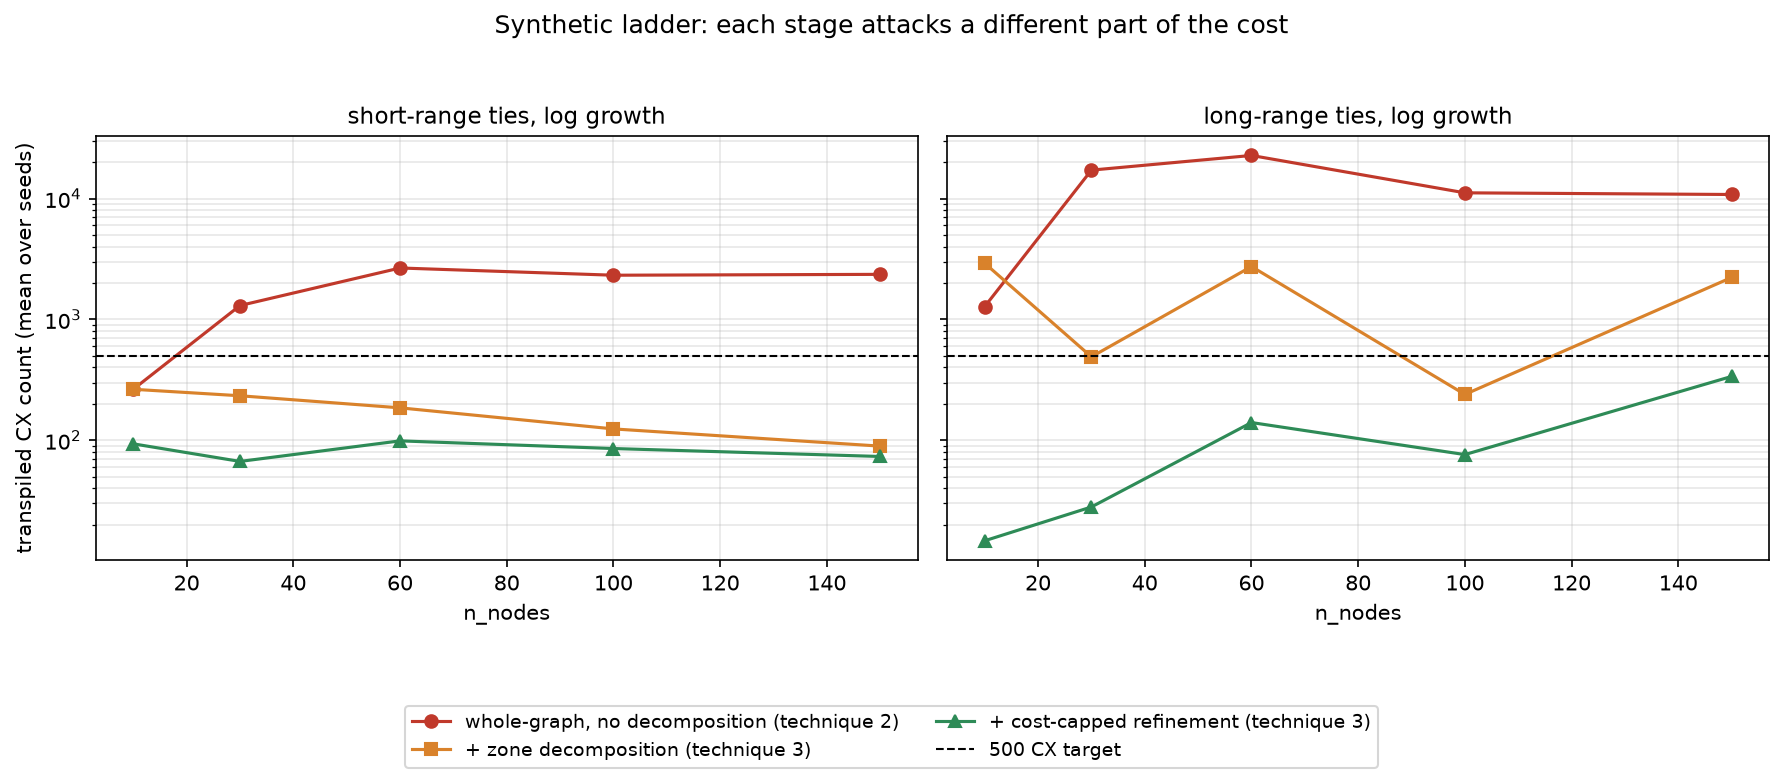
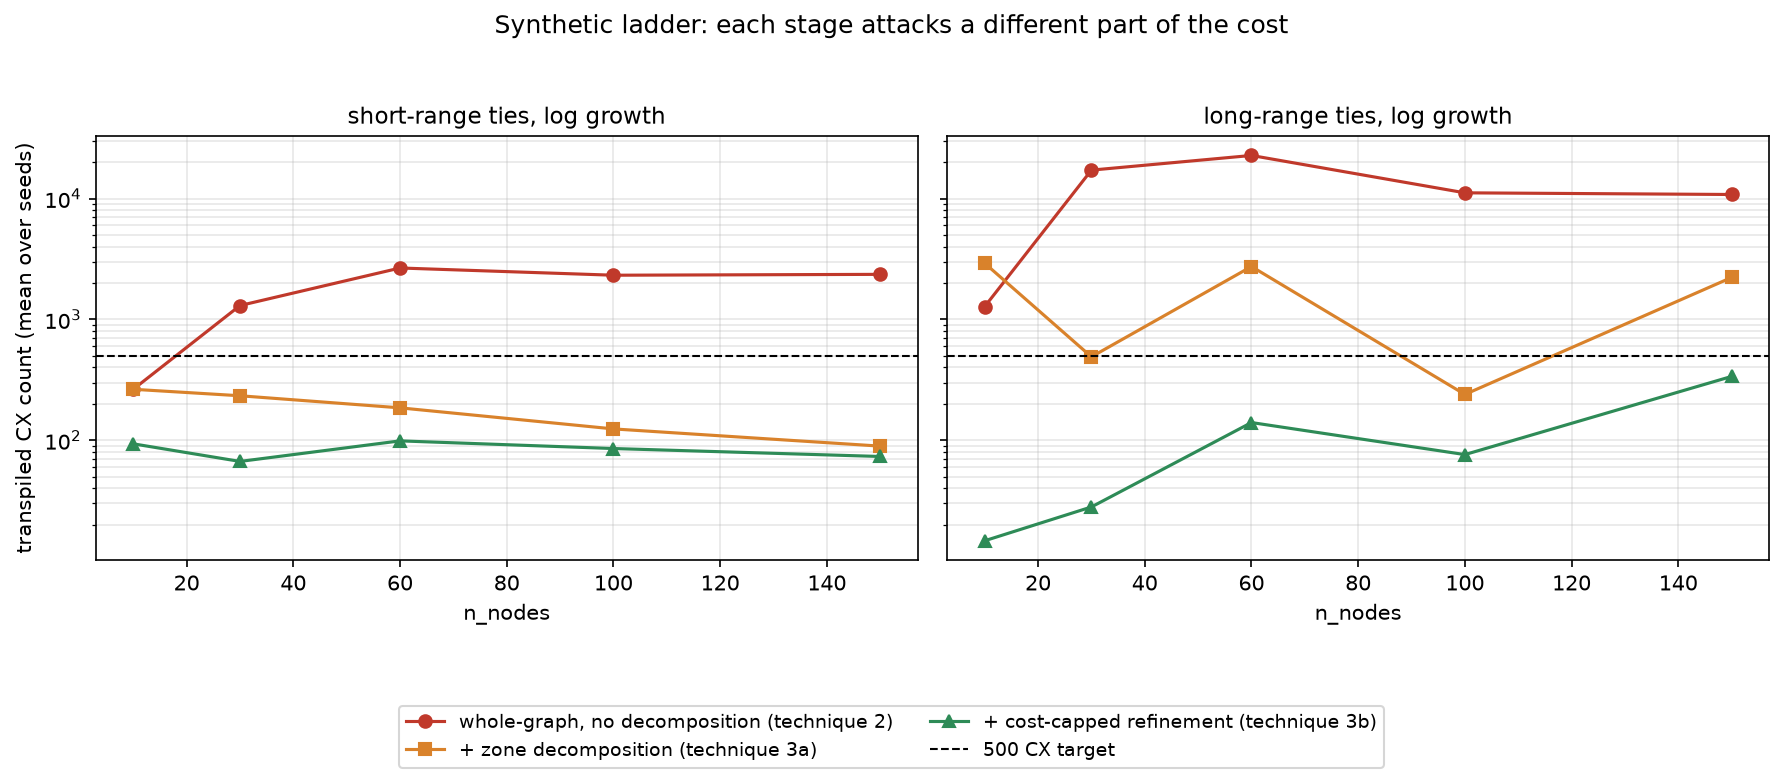
Split technique 3 into 3a/3b; add a safety-axis companion to the CX plot
Technique 3's two stages (zone decomposition, cost-capped refinement)
were both labeled "technique 3" in the construction_progression_plot
legend and in prose, which made the figure's own legend ambiguous about
which line was which technique. Split into 3a (zone decomposition) and
3b (cost-capped refinement) throughout the Techniques section and every
cross-reference in Results.

Considered and rejected adding technique 1 (exact) to the CX-cost plot:
its failure mode is dropping candidates it can't find a small witness
for, which shows up as an artificially LOW CX count next to an
incomplete, non-functional mixer -- exactly backwards from what the plot
is trying to show. It also isn't measurable at this scale at all: exact
requires brute-force enumeration that doesn't scale to n_nodes=150
long-range, which is why this ladder measures technique 2 in the first
place.

Built the suggested alternative instead: `synthetic_mass_progression_plot.png`,
the same three techniques (2, 3a, 3b) and the same ladder, plotted for
mean feasible mass (safety) instead of CX (cost) -- no new measurement,
the data was already sitting in the committed CSVs. Technique 1 is
excluded here too, for a related but distinct reason: `measure_exact`
reports mean_feasible_mass=1.0 by construction whenever it runs at all,
so a leakage-axis comparison would show it as a flat, misleadingly
perfect line that hides its actual failure mode (completeness, not
leakage) rather than revealing it.
[…]

Changed region(s): [[0.2158, 0.8889, 0.4933, 0.9808], [0.5549, 0.8889, 0.7707, 0.9808]]

diff --git a/scripts/plot_results_figures.py b/scripts/plot_results_figures.py
@@ -1,17 +1,21 @@
 """Generates README-facing result figures from already-committed CSVs --
 no new measurement, just visualizing numbers that were previously only
-presented as markdown tables. Four figures, two per side of the
-synthetic/real split the README's Results section is built around:
+presented as markdown tables. Five figures:
 
 1. `construction_progression_plot.png` -- synthetic ladder, CX vs. size,
-   whole-graph (technique 2) -> zone decomposition -> its cost-capped
-   refinement (technique 3, both stages), against the 500-CX target line.
-2. `synthetic_nisq_feasibility_plot.png` -- the same ladder's whole-graph
+   whole-graph (technique 2) -> zone decomposition (technique 3a) -> its
+   cost-capped refinement (technique 3b), against the 500-CX target line.
+2. `synthetic_mass_progression_plot.png` -- the same three techniques,
+   same ladder, mean feasible mass (safety) instead of CX. Technique 1
+   deliberately excluded from this and the plot above -- see the
+   function's own docstring for why a leakage-axis comparison would
+   misrepresent it just as badly as a cost-axis one would.
+3. `synthetic_nisq_feasibility_plot.png` -- the same ladder's whole-graph
    vs. cost-capped numbers at its hardest tested size (n_nodes=150),
    against published NISQ fidelity curves.
-3. `real_network_comparison_plot.png` -- grouped bar chart, CX cost per
+4. `real_network_comparison_plot.png` -- grouped bar chart, CX cost per
    construction, both real networks, against the 500-CX target line.
-4. `real_nisq_feasibility_plot.png` -- the two real networks' three
+5. `real_nisq_feasibility_plot.png` -- the two real networks' three
    construction variants, against the same fidelity curves.
 
 (Two earlier figures were removed as redundant once the README's own
@@ -64,8 +68,8 @@ def plot_construction_progression() -> None:
         xs_f, ys_f = _series(flat, "condition", cond, "n_nodes", "cx_mean")
         xs_c, ys_c = _series(capped, "condition", cond, "n_nodes", "cx_mean")
         ax.plot(xs_w, ys_w, marker="o", color="#C0392B", label="whole-graph, no decomposition (technique 2)")
-        ax.plot(xs_f, ys_f, marker="s", color="#D9822B", label="+ zone decomposition (technique 3)")
-        ax.plot(xs_c, ys_c, marker="^", color="#2E8B57", label="+ cost-capped refinement (technique 3)")
+        ax.plot(xs_f, ys_f, marker="s", color="#D9822B", label="+ zone decomposition (technique 3a)")
+        ax.plot(xs_c, ys_c, marker="^", color="#2E8B57", label="+ cost-capped refinement (technique 3b)")
         ax.axhline(CX_THRESHOLD, color="black", ls="dashed", lw=1, label=f"{CX_THRESHOLD} CX target")
         ax.set_yscale("log")
         ax.set_xlabel("n_nodes")
@@ -77,6 +81,46 @@ def plot_construction_progression() -> None:
     fig.suptitle("Synthetic ladder: each stage attacks a different part of the cost", fontsize=12)
     fig.tight_layout(rect=(0, 0.1, 1, 0.95))
     out = RESULTS_DIR / "construction_progression_plot.png"
+    fig.savefig(out, dpi=150, bbox_inches="tight")
+    plt.close(fig)
+    print(f"wrote {out}")
+
+
+def plot_synthetic_mass_progression() -> None:
+    """Companion to plot_construction_progression -- same three
+    techniques, same ladder, but feasible mass (safety) instead of CX
+    (cost). Technique 1 (exact) is deliberately absent from both: its
+    failure mode is dropped candidates / disconnection, not leakage --
+    `measure_exact` reports mean_feasible_mass=1.0 by construction
+    whenever it runs at all, so a leakage-axis plot would show it as a
+    flat, misleadingly perfect line that hides its actual failure mode
+    (already told honestly via `dropped_candidates`/`fully_connected`
+    elsewhere). Exact construction also doesn't scale to n_nodes=150
+    long-range at all -- brute-force enumeration is the reason this
+    repo's exact-construction sweeps stay at small sizes everywhere else."""
+    whole = _rows("cost_aware_scaling_ladder_summary.csv")
+    flat = _rows("decomposed_cost_aware_ladder_summary.csv")
+    capped = _rows("cost_capped_decomposition_summary.csv")
+
+    fig, axes = plt.subplots(1, 2, figsize=(12, 4.8), sharey=True)
+    for ax, cond, title in ((axes[0], "short_log", "short-range ties, log growth"), (axes[1], "long_log", "long-range ties, log growth")):
+        xs_w, ys_w = _series(whole, "condition", cond, "n_nodes", "mean_feasible_mass_mean")
+        xs_f, ys_f = _series(flat, "condition", cond, "n_nodes", "mean_feasible_mass_mean")
+        xs_c, ys_c = _series(capped, "condition", cond, "n_nodes", "mean_feasible_mass_mean")
+        ax.plot(xs_w, ys_w, marker="o", color="#C0392B", label="whole-graph, no decomposition (technique 2)")
+        ax.plot(xs_f, ys_f, marker="s", color="#D9822B", label="+ zone decomposition (technique 3a)")
+        ax.plot(xs_c, ys_c, marker="^", color="#2E8B57", label="+ cost-capped refinement (technique 3b)")
+        ax.axhline(1.0, color="black", ls="dashed", lw=1, label="perfect (no leakage)")
+        ax.set_xlabel("n_nodes")
+        ax.set_title(title, fontsize=11)
+        ax.grid(True, alpha=0.3)
+        ax.set_ylim(0.85, 1.02)
+    axes[0].set_ylabel("mean feasible mass (1.0 = no leakage)")
+    handles, labels = axes[0].get_legend_handles_labels()
+    fig.legend(handles, labels, loc="lower center", ncol=2, fontsize=9, bbox_to_anchor=(0.5, -0.1))
+    fig.suptitle("Synthetic ladder: the same three stages, measured for safety instead of cost", fontsize=12)
+    fig.tight_layout(rect=(0, 0.13, 1, 0.95))
+    out = RESULTS_DIR / "synthetic_mass_progression_plot.png"
     fig.savefig(out, dpi=150, bbox_inches="tight")
     plt.close(fig)
     print(f"wrote {out}")
@@ -204,6 +248,7 @@ def plot_real_network_comparison() -> None:
 
 if __name__ == "__main__":
     plot_construction_progression()
+    plot_synthetic_mass_progression()
     plot_synthetic_nisq_feasibility()
     plot_real_nisq_feasibility()
     plot_real_network_comparison()

diff --git a/README.md b/README.md
@@ -112,6 +112,27 @@ for redundancy — closer to the right panel than the left — which is
 exactly what makes this problem harder on real topology than it looks on
 a graph where ties happen to be short-range.
 
+**Two more terms used throughout the rest of this document: leakage and
+feasible mass.** A term whose witness is the *full* fundamental cycle
+fires only on states where its move is genuinely valid — it can never
+leave the feasible set. A term whose witness is deliberately capped
+smaller than that (technique 2, below) is only *approximately* correct:
+on some states it fires when it shouldn't, or the reverse. Each such
+mismatch risks **leakage** — probability that ends up on an infeasible
+(non-spanning-tree) state after enough exchanges have applied. **Feasible
+mass** is the complement, measured per trajectory: start from one
+feasible configuration, apply the mixer, and add up how much probability
+is still on feasible states afterward — 1.0 means that trajectory leaked
+nothing; less than 1.0 means some did. Averaged over many random
+starting configurations, this is the **mean feasible mass** reported
+throughout this document (and **unsafe rate**, the fraction of those
+starting points where *any* leakage occurred at all). Both are measured
+empirically (`leakage_trace.py` — exact for small instances, sampled via
+Wilson's algorithm at scale), not assumed from a term's abstract
+witness-search leakage rate alone: a term that looks leaky in isolation
+can cost little real mass if the states it misclassifies are rarely
+reached in practice, or the reverse.
+
 **This is the actual question this repo measures**: how much does that
 conditioning cost, in gates and circuit depth, and does that cost grow or
 stay manageable as the network gets larger and as tie placement gets more
@@ -187,9 +208,8 @@ measured at 17,386–32,520 CX gates at just 15-17 qubits, more than a real
 the search objective directly, closing most of that gap, and is this
 construction's validated default (`docs/bounded-witness-mixer.md`).
 
-**3. Zone decomposition (`zone_decomposition.py`) — fixes the *range*
-failure structurally and exactly, and can be made to guarantee its own
-cost.** Don't build one circuit for the whole network: partition into
+**3a. Zone decomposition (`zone_decomposition.py`) — fixes the *range*
+failure structurally and exactly.** Don't build one circuit for the whole network: partition into
 zones via a min tie-line-cut, solve each zone's matroid mixer
 independently (small qubit count each), plus one small assembly mixer
 over the contracted zone graph. Guaranteed **exact** by graphic-matroid
@@ -209,8 +229,8 @@ short-range-like, and push the genuinely long-range connections out to
 one small assembly problem instead of forcing the whole graph to absorb
 their cost.
 
-**Picking a zone size up front only gets you *a* cost, not a *controlled*
-one.** Decomposed cost turns out to have much higher seed-to-seed
+**3b. Cost-capped refinement — picking a zone size up front only gets you
+*a* cost, not a *controlled* one.** Decomposed cost turns out to have much higher seed-to-seed
 variance than whole-graph cost (coefficient of variation up to 99% at
 some sizes — decomposition trades one big averaging problem for many
 small independent ones, and a single "unlucky" zone can dominate a
@@ -265,12 +285,36 @@ that ladder, technique 2 (whole-graph, no decomposition) plateaus by
 fault-tolerant-ready construction on its own, but, as the table above
 already shows, well past a comfortable NISQ regime at these sizes.
 Technique 3 fixes that without exception on this data — at every size
-≥ 30 nodes, every seed, both conditions, decomposition alone already
-costs less than the whole-graph construction (5.6x-46.7x cheaper), and
-its cost-capped refinement guarantees the rest of the way: every seed,
-every condition, every size tested, lands under 500 CX (§6-8):
+≥ 30 nodes, every seed, both conditions, zone decomposition (3a) alone
+already costs less than the whole-graph construction (5.6x-46.7x
+cheaper), and its cost-capped refinement (3b) guarantees the rest of the
+way: every seed, every condition, every size tested, lands under 500 CX
+(§6-8):
 
 ![Synthetic ladder: whole-graph -> zone decomposition -> cost-capped refinement](results/construction_progression_plot.png)
+
+*(Technique 1, the exact construction, is deliberately absent from this
+figure. Its failure mode isn't cost — it's dropping candidates it can't
+find a small witness for, which shows up as an artificially LOW CX count
+next to an incomplete, non-functional mixer, and it doesn't scale to
+`n_nodes=150` long-range at all: brute-force enumeration is intractable
+there, which is exactly why this ladder measures technique 2 instead.)*
+
+The same three stages, measured for safety instead of cost:
+
+![Synthetic ladder: the same three stages, measured for safety instead of cost](results/synthetic_mass_progression_plot.png)
+
+Technique 2 alone leaks real, sometimes substantial probability (down to
+91% mean feasible mass on the hardest long-range condition); 3a tightens
+that considerably; 3b's cost-capped refinement is indistinguishable from
+perfect (1.0 mean feasible mass) at every size, on both conditions —
+cheaper AND safer than either stage before it, not a tradeoff between
+the two. (Technique 1 is absent here too, for a related but distinct
+reason: `mean_feasible_mass=1.0` is true of it BY CONSTRUCTION whenever
+it runs at all, so a leakage-axis comparison would show it as a flat,
+misleadingly perfect line that hides its actual failure mode —
+completeness, not leakage, already covered honestly via
+`dropped_candidates`/`fully_connected` in "Techniques" above.)
 
 At the hardest size tested (`n_nodes=150`), directly against the
 feasibility numbers above:
@@ -285,7 +329,7 @@ feasibility numbers above:
 ![Where the synthetic ladder lands relative to NISQ feasibility](results/synthetic_nisq_feasibility_plot.png)
 
 On synthetic data: more decomposition, less cost, no exceptions — and
-technique 3's cost-capped refinement is what actually earns NISQ
+technique 3b's cost-capped refinement is what actually earns NISQ
 feasibility on the harder, long-range condition.
 
 ### On real data, the same clean story holds
@@ -359,8 +403,9 @@ reproduce the committed files in `results/` exactly, modulo `qiskit`/
 `networkx` version differences in transpilation.
 
 This reproduces what's *shown* here, not every measurement behind it —
-`construction_progression_plot.png` and `synthetic_nisq_feasibility_plot.png`
-read already-committed CSVs (`results/cost_aware_scaling_ladder_*.csv`,
+`construction_progression_plot.png`, `synthetic_mass_progression_plot.png`,
+and `synthetic_nisq_feasibility_plot.png` all read already-committed CSVs
+(`results/cost_aware_scaling_ladder_*.csv`,
 `decomposed_cost_aware_ladder_*.csv`, `cost_capped_decomposition_*.csv`)
 rather than re-deriving them from scratch. To regenerate those (or dig
 into the fuller investigation — the escalating realism ladder, the
@@ -415,7 +460,7 @@ QAOA performance.
     `run_best_of_both_ladder.py`, `run_hierarchical_decomposed_ladder.py`,
     `run_cost_capped_decomposition.py`, `run_real_networks_hierarchical.py`.
   - **Figures**: `plot_illustrations.py` (explanatory diagrams, not
-    measurements), `plot_results_figures.py` (this README's four result
+    measurements), `plot_results_figures.py` (this README's five result
     figures, from already-committed CSVs, no re-measurement).
 - `results/` — one CSV/plot pair per script above, all generated, none
   hand-edited. `*_before_minimization.*` files are pre-fix numbers, kept
